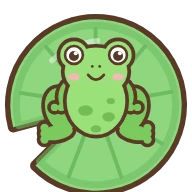
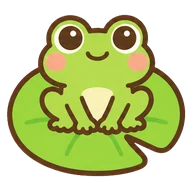
かえる: AI 生成の絵に差し替え（正面すわり・よこむきジャンプ）、向きは回さず左右反転と傾きで表現
Claude-Session: https://claude.ai/code/session_014KGCnFaGZkZDbvuqRPee3u

diff --git a/index.html b/index.html
@@ -486,9 +486,9 @@
   @keyframes krGlint { 0%, 100% { opacity: 0; transform: translateX(-6px) scaleX(.7); } 50% { opacity: .85; transform: translateX(6px) scaleX(1); } }
   .kr-pads { position: absolute; inset: 0; overflow: hidden; }
   .kr-pad { position: absolute; padding: 0; border: 0; background: none; z-index: 1; -webkit-tap-highlight-color: transparent; }
-  .kr-pimg { position: absolute; inset: 0; width: 100%; height: 100%; display: block; pointer-events: none; -webkit-user-drag: none; filter: drop-shadow(0 5px 3px rgba(40,90,110,.25)); animation: krBob 5.5s ease-in-out infinite; animation-delay: var(--d, 0s); transform: rotate(var(--r, 0deg)); }
+  .kr-pimg { position: absolute; inset: 0; width: 100%; height: 100%; object-fit: contain; display: block; pointer-events: none; -webkit-user-drag: none; filter: drop-shadow(0 5px 3px rgba(40,90,110,.25)); animation: krBob 5.5s ease-in-out infinite; animation-delay: var(--d, 0s); transform: rotate(var(--r, 0deg)); }
   @keyframes krBob { 0%, 100% { transform: rotate(var(--r, 0deg)) scale(1); } 50% { transform: rotate(calc(var(--r, 0deg) + 3deg)) scale(1.035); } }
-  .kr-lotus { position: absolute; width: 42%; height: 42%; left: 50%; top: 14%; pointer-events: none; display: block; animation: krSway 4s ease-in-out infinite; }
+  .kr-lotus { position: absolute; width: 36%; height: 36%; object-fit: contain; left: 14%; top: 22%; pointer-events: none; display: block; animation: krSway 4s ease-in-out infinite; }
   @keyframes krSway { 0%, 100% { transform: rotate(-5deg) scale(1); } 50% { transform: rotate(5deg) scale(1.06); } }
   .kr-shadow { position: absolute; z-index: 2; pointer-events: none; opacity: 0; }
   .kr-shadow i { position: absolute; inset: 0; border-radius: 50%; background: radial-gradient(closest-side, rgba(15,50,65,.8), rgba(15,50,65,.5) 62%, rgba(15,50,65,0)); }
@@ -8601,7 +8601,7 @@
   var KAERU_IMG = { sit: 'assets/kaeru/frog-sit.webp', jump: 'assets/kaeru/frog-jump.webp', pad: ['assets/kaeru/pad1.webp', 'assets/kaeru/pad2.webp'], lotus: 'assets/kaeru/lotus.webp' };   // どれも うえむきの かえる／まるい はっぱ（おなじ名前の絵に さしかえられる）
   var krStage = $('#stage-kaeru'), krPads = $('#kr-pads'), krFrog = $('#kr-frog'), krLift = $('#kr-lift'), krTurn = $('#kr-turn'), krSq = $('#kr-sq'),
       krSit = $('#kr-sit'), krJmp = $('#kr-jmp'), krShadow = $('#kr-shadow'), krFx = $('#fx-kaeru');
-  var kr = { on: false, pads: [], idx: 0, to: 0, ang: 0, S: 0, F: 0, D: 0, busy: false, laps: 0, tm: [], anims: [], seed: [] };
+  var kr = { on: false, pads: [], idx: 0, to: 0, face: 1, S: 0, F: 0, D: 0, JW: 0, SW: 0, busy: false, laps: 0, tm: [], anims: [], seed: [] };
   window.__kr = kr;
   krSit.src = KAERU_IMG.sit; krJmp.src = KAERU_IMG.jump;
   function krTm(fn, ms) { var id = later(function () { var i = kr.tm.indexOf(id); if (i >= 0) kr.tm.splice(i, 1); fn(); }, ms); kr.tm.push(id); return id; }
@@ -8649,14 +8649,14 @@
   }
   function krPlace() {
     var L = krLayout(); if (!L) return false;
-    var S = L.S, D = Math.round(S * 0.8), F = Math.max(96, D + 12);
-    kr.S = S; kr.F = F; kr.D = D;
+    var S = L.S, D = Math.round(S * 0.76), F = Math.max(96, D + 12), JW = Math.round(D * 1.2);
+    kr.S = S; kr.F = F; kr.D = D; kr.JW = JW; kr.SW = Math.round(JW * 0.85);
     krPads.innerHTML = ''; kr.pads = [];
     L.pts.forEach(function (p, i) {
       var b = document.createElement('button'), im = document.createElement('img');
       b.type = 'button'; b.className = 'kr-pad'; b.setAttribute('aria-label', 'はっぱ'); b.dataset.i = i;
       b.style.width = b.style.height = S + 'px'; b.style.left = Math.round(p.x - S / 2) + 'px'; b.style.top = Math.round(p.y - S / 2) + 'px';
-      if (!kr.seed[i]) kr.seed[i] = { r: Math.round(Math.random() * 360), d: -(Math.random() * 5).toFixed(1) };
+      if (!kr.seed[i]) kr.seed[i] = { r: Math.round(Math.random() * 40 - 20), d: -(Math.random() * 5).toFixed(1) };
       im.className = 'kr-pimg'; im.alt = ''; im.draggable = false; im.src = KAERU_IMG.pad[i % 2];
       im.style.setProperty('--r', kr.seed[i].r + 'deg'); im.style.setProperty('--d', kr.seed[i].d + 's');
       b.appendChild(im);
@@ -8664,16 +8664,15 @@
       krPads.appendChild(b); kr.pads.push({ el: b, x: Math.round(p.x), y: Math.round(p.y) });
     });
     krFrog.style.width = krFrog.style.height = F + 'px';
-    krSit.style.width = krSit.style.height = krJmp.style.width = krJmp.style.height = D + 'px';
-    krShadow.style.width = krShadow.style.height = Math.round(D * 1.05) + 'px';
+    krSit.style.width = D + 'px'; krJmp.style.width = JW + 'px'; krSit.style.height = krJmp.style.height = 'auto';
+    krShadow.style.width = kr.SW + 'px'; krShadow.style.height = Math.round(kr.SW * 0.5) + 'px';
     krSetAt(Math.min(kr.idx, kr.pads.length - 1));
     return true;
   }
   function krSetAt(i) {
     var p = kr.pads[i]; if (!p) return;
     kr.idx = i;
-    krFrog.style.left = (p.x - kr.F / 2) + 'px'; krFrog.style.top = (p.y - kr.F / 2) + 'px';
-    krTurn.style.transform = 'rotate(' + kr.ang + 'deg)';
+    krFrog.style.left = (p.x - kr.F / 2) + 'px'; krFrog.style.top = (p.y - kr.F / 2 + Math.round(kr.S * 0.07)) + 'px';   // すわった かえるが はっぱの まんなかに みえるよう すこし した
     krFrog.hidden = false;
   }
   function krRipple(x, y, size, delay) {
@@ -8705,12 +8704,11 @@
   function krJump() {
     if (!kr.on || kr.busy || kr.pads.length < 2) return;
     var from = kr.idx, to = (from + 1) % kr.pads.length, a = kr.pads[from], b = kr.pads[to];
-    var dx = b.x - a.x, dy = b.y - a.y, want = Math.atan2(dx, -dy) * 180 / Math.PI;
-    var delta = ((want - kr.ang) % 360 + 540) % 360 - 180;
-    var R = reduce ? 0.4 : 1, T_TURN = Math.max(60, Math.min(170, Math.abs(delta) * 2.2)) * R, T_CROUCH = 130 * R, T_FLY = 650 * R;
+    var dx = b.x - a.x, dy = b.y - a.y;
+    if (Math.abs(dx) > 8) kr.face = dx > 0 ? 1 : -1;      // えは ひだりむき。みぎへ とぶときは はんてん
+    var sgn = kr.face, tilt = Math.max(-35, Math.min(35, Math.atan2(dy * sgn, Math.max(Math.abs(dx), 20)) * 180 / Math.PI));
+    var R = reduce ? 0.4 : 1, T_TURN = 0, T_CROUCH = 150 * R, T_FLY = 650 * R;
     kr.busy = true; kr.to = to;
-    var fromAng = kr.ang; kr.ang = fromAng + delta;
-    krAnim(krTurn, [{ transform: 'rotate(' + fromAng + 'deg)' }, { transform: 'rotate(' + kr.ang + 'deg)' }], { duration: T_TURN, easing: 'ease-in-out', fill: 'forwards' });
     krTm(function () {                                   // ためる
       krAnim(krSq, [{ transform: 'scale(1,1)' }, { transform: 'scale(1.12,.82)' }], { duration: T_CROUCH, easing: 'ease-out', fill: 'forwards' });
       krAnim(a.el, [{ transform: 'scale(1)' }, { transform: 'scale(.94)' }], { duration: T_CROUCH, easing: 'ease-out', fill: 'forwards' });
@@ -8718,20 +8716,21 @@
     krTm(function () {                                   // とびだす
       krSit.hidden = true; krJmp.hidden = false;
       krCancelOn([krSq, a.el]);
+      krAnim(krTurn, [{ transform: 'scaleX(' + -sgn + ')' }, { transform: 'rotate(' + tilt + 'deg) scaleX(' + -sgn + ')' }], { duration: reduce ? 100 : 220, easing: 'ease-out', fill: 'forwards' });
       krDip(a.el, 0.84);
       krRipple(a.x, a.y, kr.S * 0.9); krDrops(a.x, a.y, 3);
       tone(420, 0.14, 'sine', 0.16, 980); tone(840, 0.1, 'triangle', 0.05, 1500, 0.03);
       say('ぴょん'); bigWord('ぴょん', '#3E9B3E');
-      var ease = 'cubic-bezier(.35,.05,.45,1)', ox = Math.max(-16, Math.min(16, 10 + dx * 0.03)), oy = 56, sw = parseFloat(krShadow.style.width);
+      var ease = 'cubic-bezier(.35,.05,.45,1)', ox = Math.max(-16, Math.min(16, 10 + dx * 0.03)), oy = Math.round(kr.D * 0.5), sw = kr.SW, sh = parseFloat(krShadow.style.height);
       krAnim(krFrog, [{ transform: 'translate(0,0)' }, { transform: 'translate(' + dx + 'px,' + dy + 'px)' }], { duration: T_FLY, easing: ease, fill: 'forwards' });
       krAnim(krLift, [{ transform: 'scale(1)', easing: 'cubic-bezier(.15,.7,.4,1)' }, { transform: 'scale(1.45)', offset: 0.5, easing: 'cubic-bezier(.6,0,.85,.35)' }, { transform: 'scale(1)' }], { duration: T_FLY, fill: 'forwards' });
-      krShadow.style.left = (a.x - sw / 2) + 'px'; krShadow.style.top = (a.y - sw / 2) + 'px';
+      krShadow.style.left = (a.x - sw / 2) + 'px'; krShadow.style.top = (a.y - sh / 2 + Math.round(kr.S * 0.07)) + 'px';
       krAnim(krShadow, [{ transform: 'translate(0,0)', opacity: 1 }, { transform: 'translate(' + dx + 'px,' + dy + 'px)', opacity: 1 }], { duration: T_FLY, easing: ease, fill: 'both' });
       krAnim(krShadow.firstElementChild, [{ transform: 'translate(0,0) scale(1)', opacity: 0.7, easing: 'ease-out' }, { transform: 'translate(' + ox + 'px,' + oy + 'px) scale(.8)', opacity: 0.55, offset: 0.5, easing: 'ease-in' }, { transform: 'translate(0,0) scale(1)', opacity: 0.7 }], { duration: T_FLY, fill: 'both' });
     }, T_TURN + T_CROUCH);
     krTm(function () {                                   // ちゃくち
       krSit.hidden = false; krJmp.hidden = true;
-      krCancelOn([krFrog, krLift, krShadow, krShadow.firstElementChild, krSq]);
+      krCancelOn([krFrog, krLift, krShadow, krShadow.firstElementChild, krSq, krTurn]);
       krSetAt(to);
       krAnim(krSq, [{ transform: 'scale(1,1)' }, { transform: 'scale(1.24,.78)', offset: 0.22 }, { transform: 'scale(.9,1.14)', offset: 0.5 }, { transform: 'scale(1.04,.97)', offset: 0.75 }, { transform: 'scale(1,1)' }], { duration: reduce ? 250 : 480, easing: 'ease-out' });
       krDip(b.el, 0.88);
@@ -8765,7 +8764,7 @@
   games.kaeru = {
     el: krStage,
     enter: function () {
-      kr.on = true; kr.idx = 0; kr.to = 0; kr.ang = 0; kr.busy = false; kr.laps = 0; kr.seed = [];
+      kr.on = true; kr.idx = 0; kr.to = 0; kr.face = 1; kr.busy = false; kr.laps = 0; kr.seed = [];
       krSit.hidden = false; krJmp.hidden = true;
       krSize();
       krStage.addEventListener('pointerdown', krDown); krStage.addEventListener('contextmenu', krCtl);

diff --git a/tests/e2e.js b/tests/e2e.js
@@ -2767,7 +2767,7 @@ const TV = (name, vps, fn) => vps.forEach(vp => T(name + '-' + vp.width + 'x' + 
     const vis = () => p.evaluate(() => ({ sit: !document.querySelector('#kr-sit').hidden, jmp: !document.querySelector('#kr-jmp').hidden }));
     const idle = () => p.evaluate(() => !window.__kr.busy);
     const fire = () => p.evaluate(() => document.querySelector('#kr-frog').dispatchEvent(new PointerEvent('pointerdown', { bubbles: true, cancelable: true })));
-    const near = (a, b) => Math.hypot(a.cx - b.cx, a.cy - b.cy) <= 3;
+    const near = (a, b) => Math.abs(a.cx - b.cx) <= 3 && a.cy - b.cy >= 0 && a.cy - b.cy <= 14;
     await tapTile(p, 'かえる'); await sleep(500);
     ok(await p.locator('#stage-kaeru').isVisible() && await p.locator('#hm-p3').isHidden(), tag + ': tile on page 4 opens かえる');
     ok((await says(p)).some(x => x.t === 'かえる！') && await p.locator('#homebtn').isVisible() && await p.locator('#setbtn').isHidden(), tag + ': speaks かえる！, shared 🏠, no adult button');
@@ -2785,9 +2785,9 @@ const TV = (name, vps, fn) => vps.forEach(vp => T(name + '-' + vp.width + 'x' + 
     await p.locator('#kr-frog').click();
     ok(await until(async () => (await vis()).jmp, 800) && !(await vis()).sit, tag + ': jump sprite is shown in flight');
     await sleep(330);
-    const mid = await p.evaluate(() => { const f = document.querySelector('#kr-lift').getBoundingClientRect(), sh = document.querySelector('#kr-shadow i').getBoundingClientRect(), sit = document.querySelector('#kr-jmp').getBoundingClientRect(); return { fw: sit.width, sw: sh.width, so: +getComputedStyle(document.querySelector('#kr-shadow i')).opacity, base: window.__kr.D }; });
+    const mid = await p.evaluate(() => { const f = document.querySelector('#kr-lift').getBoundingClientRect(), sh = document.querySelector('#kr-shadow i').getBoundingClientRect(), sit = document.querySelector('#kr-jmp').getBoundingClientRect(); return { fw: sit.width, sw: sh.width, so: +getComputedStyle(document.querySelector('#kr-shadow i')).opacity, base: window.__kr.JW, shBase: window.__kr.SW, tf: document.querySelector('#kr-turn').style.transform || getComputedStyle(document.querySelector('#kr-turn')).transform }; });
     await shot('mid');
-    ok(mid.fw > mid.base * 1.2 && mid.sw < mid.base * 1.05 * 0.9, tag + ': at the apex the frog is scaled up and the shadow is smaller ' + JSON.stringify(mid));
+    ok(mid.fw > mid.base * 1.2 && mid.sw < mid.shBase * 0.9, tag + ': at the apex the frog is scaled up and the shadow is smaller ' + JSON.stringify(mid));
     ok(await p.evaluate(() => { const a = document.querySelector('#kr-shadow i').getBoundingClientRect(), b = document.querySelector('#kr-frog').getBoundingClientRect(); return Math.hypot((a.left + a.width / 2) - (b.left + b.width / 2), (a.top + a.height / 2) - (b.top + b.height / 2)) > 3; }), tag + ': shadow is offset from the frog mid-flight');
     /* とんでいる さいちゅうの タップは むし */
     await fire(); await fire(); await sleep(60);

diff --git a/sw.js b/sw.js
@@ -1,5 +1,5 @@
 /* ぽんぽんあそび service worker: オフライン対応。index.html 以外のプリキャッシュ対象を変えたら CACHE を上げる。 */
-var CACHE = 'ponpon-v9';
+var CACHE = 'ponpon-v10';
 var FONTS = 'ponpon-fonts-v1';
 var PRECACHE = ['./', './index.html', './manifest.webmanifest', './icons/icon.svg', './icons/icon-192.png', './icons/icon-512.png', './icons/icon-maskable-512.png', './icons/apple-touch-icon.png'].concat([
   './assets/ani/buta.webp',

diff --git a/tools/make-kaeru.py b/tools/make-kaeru.py
@@ -1,0 +1,113 @@
+#!/usr/bin/env python3
+#!/usr/bin/env python3
+"""かえる の絵: マゼンタ背景のシート（3x2）を切り分けて透過 WebP にする。
+使い方: python3 tools/make-kaeru.py シート.png
+ 1 行目 frog-sit（正面・すわり）frog-jump（よこむき・ひだりむき・とんでる）pad1 / 2 行目 pad2 lotus ico（はっぱに のった かえる）
+ → assets/kaeru/*.webp（長辺 256px・縦横比そのまま）、ico は assets/ico/kaeru.webp（192px 正方形）
+元シートはリポジトリに置かない。キーイングは make-kiru.py と同じ。"""
+import os
+import sys
+import numpy as np
+from PIL import Image
+from scipy import ndimage as ndi
+
+ROOT = os.path.join(os.path.dirname(os.path.abspath(__file__)), '..')
+ICO_DIR = os.path.join(ROOT, 'assets', 'ico')
+KR_DIR = os.path.join(ROOT, 'assets', 'kaeru')
+GRID = 'frog-sit frog-jump pad1 pad2 lotus ico'.split()   # 3x2（左上から右へ）
+OUTLINE_M = -35.0
+
+
+def key(a):
+    return np.minimum(a[..., 0], a[..., 2]) - a[..., 1]
+
+
+def to_rgba(path):
+    a = np.asarray(Image.open(path).convert('RGB')).astype(np.float32)
+    m = key(a)
+    bgc = np.median(a[m > 200], axis=0)
+    bgm = float(np.median(m[m > 200]))
+    bg = m > 150
+    bg = ndi.binary_opening(bg, iterations=1) | (m > 215)
+    near = ndi.binary_dilation(bg, iterations=3) & ~bg
+    alpha = np.where(bg, 0.0, 1.0)
+    e = near & (m > OUTLINE_M)
+    alpha[e] = np.clip((bgm - m[e]) / (bgm - OUTLINE_M), 0, 1)
+    alpha[near & ~e] = 1.0
+    alpha = np.clip((alpha - 0.08) / 0.84, 0, 1)
+    k = np.maximum(alpha, 1e-3)[..., None]
+    fg = np.clip((a - (1 - k) * bgc) / k, 0, 255)
+    solid = alpha > 0.98
+    idx = ndi.distance_transform_edt(~solid, return_distances=False, return_indices=True)
+    nearest = a[idx[0], idx[1]]
+    edge = (alpha > 0) & (alpha < 0.98)
+    fg = np.where(edge[..., None], 0.55 * nearest + 0.45 * fg, fg)
+    ex = np.minimum(fg[..., 0], fg[..., 2]) - fg[..., 1]
+    spill = edge & (ex > 0)
+    fg[..., 0] = np.where(spill, fg[..., 0] - ex * 0.6, fg[..., 0])
+    fg[..., 2] = np.where(spill, fg[..., 2] - ex * 0.6, fg[..., 2])
+    return np.dstack([np.clip(fg, 0, 255), alpha * 255]).astype(np.uint8)
+
+
+def clean(rgba):
+    """小さなごみ（元絵の端のかけら）を消す。大きな塊の近く（60px 以内）の小片は残す。"""
+    al = rgba[..., 3].astype(np.float32) / 255
+    lab, nl = ndi.label(al > 0.16)
+    if nl == 0:
+        return rgba, None
+    ids = np.arange(1, nl + 1)
+    sizes = ndi.sum(np.ones_like(al), lab, ids)
+    big = sizes.max()
+    main = ids[sizes >= 0.1 * big]
+    near = ndi.binary_dilation(np.isin(lab, main), iterations=60)
+    keep = [j for j in ids if sizes[j - 1] >= max(30, 0.003 * big) and (near[lab == j].any())]
+    mask = np.isin(lab, keep)
+    out = rgba.copy()
+    out[..., 3] = np.where(mask, out[..., 3], 0)
+    return out, mask
+
+
+def crop(rgba, pad=2):
+    ys, xs = np.where(rgba[..., 3] > 40)
+    y0, y1, x0, x1 = max(0, ys.min() - pad), ys.max() + 1 + pad, max(0, xs.min() - pad), xs.max() + 1 + pad
+    return Image.fromarray(rgba[y0:y1, x0:x1], 'RGBA')
+
+
+def save(img, path):
+    img.save(path, 'WEBP', quality=88, method=6)
+    print(os.path.relpath(path, ROOT), img.size)
+
+
+
+def square(t, size, fit):
+    s = fit / max(t.size)
+    t = t.resize((max(1, round(t.size[0] * s)), max(1, round(t.size[1] * s))), Image.LANCZOS)
+    c = Image.new('RGBA', (size, size), (0, 0, 0, 0))
+    c.paste(t, ((size - t.size[0]) // 2, (size - t.size[1]) // 2))
+    return c
+
+
+def long_side(t, n, pad=3):
+    s = (n - 2 * pad) / max(t.size)
+    t = t.resize((max(1, round(t.size[0] * s)), max(1, round(t.size[1] * s))), Image.LANCZOS)
+    c = Image.new('RGBA', (t.size[0] + 2 * pad, t.size[1] + 2 * pad), (0, 0, 0, 0))
+    c.paste(t, (pad, pad))
+    return c
+
+
+if len(sys.argv) != 2:
+    sys.exit(__doc__)
+os.makedirs(KR_DIR, exist_ok=True)
+rgba = to_rgba(sys.argv[1])
+H, W = rgba.shape[:2]
+for i, n in enumerate(GRID):
+    r, c = divmod(i, 3)
+    y0, y1, x0, x1 = r * H // 2, (r + 1) * H // 2, c * W // 3, (c + 1) * W // 3
+    cell = np.zeros_like(rgba)
+    cell[y0:y1, x0:x1] = rgba[y0:y1, x0:x1]
+    cell, _ = clean(cell)
+    t = crop(cell)
+    if n == 'ico':
+        save(square(t, 192, 180), '%s/kaeru.webp' % ICO_DIR)
+    else:
+        save(long_side(t, 256), '%s/%s.webp' % (KR_DIR, n))

diff --git a/CLAUDE.md b/CLAUDE.md
@@ -25,7 +25,7 @@ E2E はブロックごとに別プロセス・別 browser で独立に走る（`
 - 共通ヘルパー: `say()`（日本語の読み上げ）、`sayEn()`（英語。カタカナにフォールバックする）、`bigWord()`（話した言葉を大きく表示）、`tone()`（効果音）、`holdButton()`（長押しボタン）。
 - 大人用の設定はホームの ⚙（1.5 秒長押し）の `openSettings()` に集約。ゲーム画面には大人用ボタンを置かない。
 - localStorage: `ponpon.settings.v1` / `ponpon.family.v1` / `ponpon.stickers.v1` / `ponpon.stats.v1` / `ponpon.mix.v1`（まぜまぜの はっけんずみ）。必ず try/catch で囲む。音なし・声なしは保存しない。
-- イラストは `assets/ico/`（ホームのアイコン、`ICO`）と `assets/ani/`（どうぶつの顔、`ANI_IMG`）に透過 WebP（約192px）、`assets/mix/`（まぜまぜの もと6つ＋できもの21、192px。マゼンタ背景のシートから `python3 tools/make-mix.py 出力dir シート1 シート2 シート3` で切り出し）、`assets/kiru/`（とんとん の 食べもの・断面・道具。マゼンタ背景のシートから `python3 tools/make-kiru.py シート1 シート2` で切り出し。ホームの追加アイコン `assets/ico/{drive,piano,pinball,voice,nami,mix,suna,kiru}` も同じシート1 から出る）、`assets/stk/`（シールちょうのシール、`STK_IMG`。白フチ込み 256px）で置く。トーンはそろえる（やわらかい手描き風・太めで丸い焦げ茶の輪郭・パステル）。
+- イラストは `assets/ico/`（ホームのアイコン、`ICO`）と `assets/ani/`（どうぶつの顔、`ANI_IMG`）に透過 WebP（約192px）、`assets/mix/`（まぜまぜの もと6つ＋できもの21、192px。マゼンタ背景のシートから `python3 tools/make-mix.py 出力dir シート1 シート2 シート3` で切り出し）、`assets/kiru/`（とんとん の 食べもの・断面・道具。マゼンタ背景のシートから `python3 tools/make-kiru.py シート1 シート2` で切り出し。ホームの追加アイコン `assets/ico/{drive,piano,pinball,voice,nami,mix,suna,kiru}` も同じシート1 から出る）、`assets/kaeru/`（かえる: すわり・とびの 2 ポーズと はっぱ 2・はす。マゼンタ背景の 3x2 シートから `python3 tools/make-kaeru.py シート` で切り出し。ホームアイコン `assets/ico/kaeru` も同じシートから出る。絵は `KAERU_IMG` で差し替え）、`assets/stk/`（シールちょうのシール、`STK_IMG`。白フチ込み 256px）で置く。トーンはそろえる（やわらかい手描き風・太めで丸い焦げ茶の輪郭・パステル）。
 - カメラ検出（おみせやさん）は `/* camdet:begin */`〜`/* camdet:end */` の純粋関数。単体テストはこの範囲を抜き出して実行する。
 
 ## 守ること
